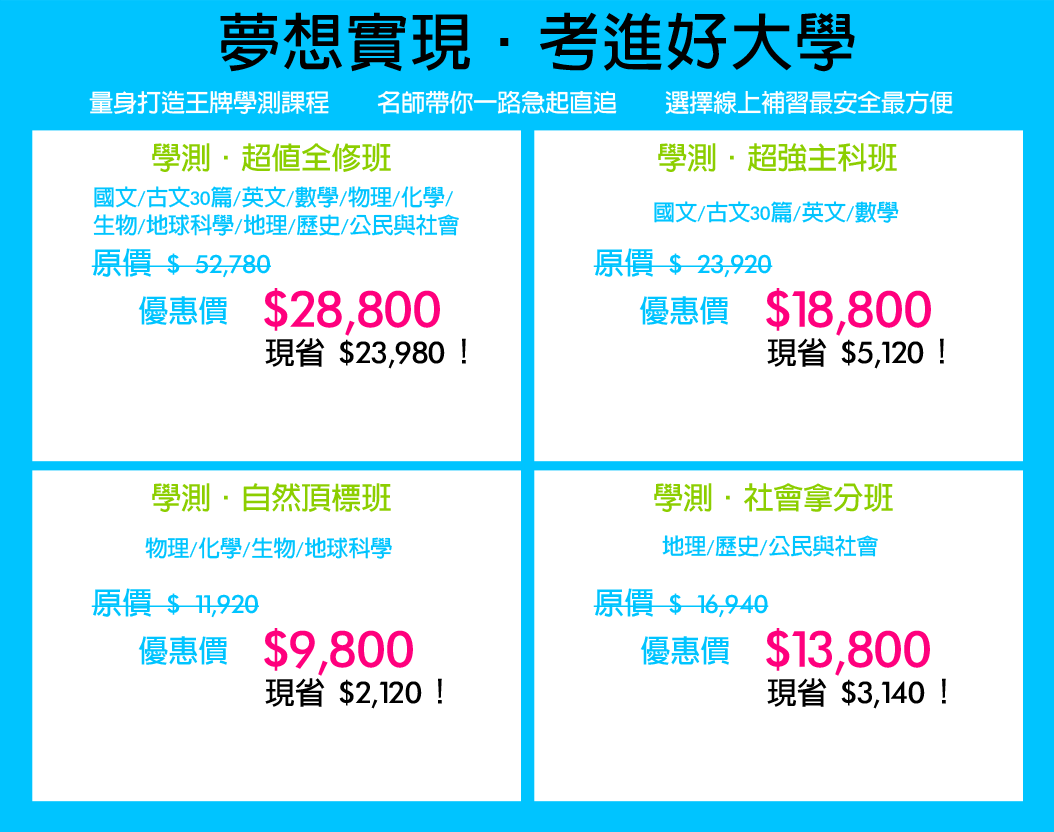
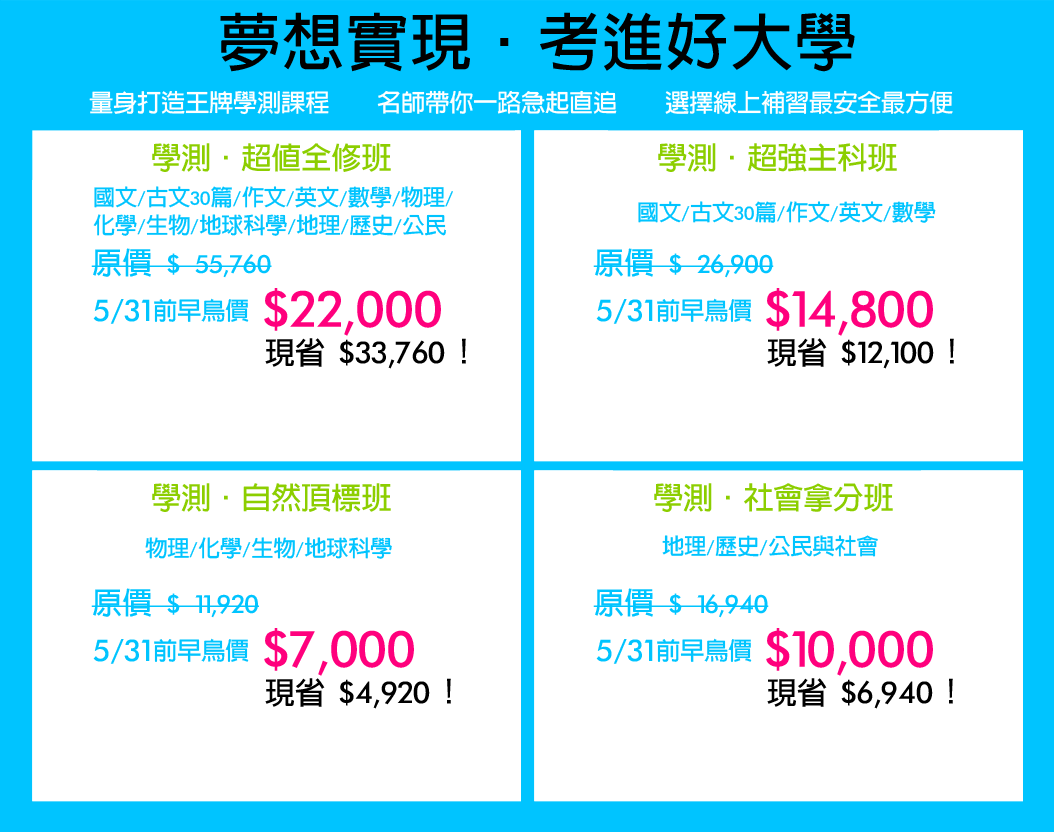
about #3452 更新 108 學測早鳥優惠開跑

diff --git a/dist/index.html b/dist/index.html
@@ -10,7 +10,7 @@
         <nav><a href="#banner"></a><a href="#teachers"></a><a href="#contents"></a><a href="#prices"></a>
         </nav>
         <section id="banner"><img src="./img/section_1.png"/></section>
-        <section><img src="./img/section_2.png"/></section>
+        <!--section: img(src="./img/section_2.png")/-->
         <section><img src="./img/section_3.png"/>
             <ul class="benefits">
                 <li class="card"><img class="front" src="./img/benefit/benefit_1_f.png"/><img class="back" src="./img/benefit/benefit_1_b.png"/></li>
@@ -62,7 +62,7 @@
         <section id="prices"><img src="./img/section_7.png"/><a class="enter" target="_blank" href="http://www.ehanlin.com.tw/type/ONLINE/id/y105_sh_rev_all_et/SalesPlans.html"></a><a class="enter" target="_blank" href="http://www.ehanlin.com.tw/type/ONLINE/id/y106_sh_rev_mainall_et/SalesPlans.html"></a><a class="enter" target="_blank" href="http://www.ehanlin.com.tw/type/ONLINE/id/y106_sh_rev_naall_et/SalesPlans.html"></a><a class="enter" target="_blank" href="http://www.ehanlin.com.tw/type/ONLINE/id/y106_sh_rev_soall_et/SalesPlans.html"></a>
         </section>
         <section id="courses"><img src="./img/section_8.png"/>
-            <div><a class="more_course" target="_blank" href="https://www.ehanlin.com.tw/type/ONLINE/id/y105_sh_rev_pc_et/SalesPlans.html"></a><a class="more_course" target="_blank" href="https://www.ehanlin.com.tw/type/ONLINE/id/y105_sh_rev_pc30_et/SalesPlans.html"></a><a class="more_course" target="_blank" href="https://www.ehanlin.com.tw/type/ONLINE/id/y105_sh_rev_en_et/SalesPlans.html"></a><a class="more_course" target="_blank" href="https://www.ehanlin.com.tw/type/ONLINE/id/y105_sh_rev_ma_et/SalesPlans.html"></a><a class="more_course" target="_blank" href="https://www.ehanlin.com.tw/type/ONLINE/id/y105_sh_rev_ph_et/SalesPlans.html"></a><a class="more_course" target="_blank" href="https://www.ehanlin.com.tw/type/ONLINE/id/y105_sh_rev_ch_et/SalesPlans.html"></a><a class="more_course" target="_blank" href="https://www.ehanlin.com.tw/type/ONLINE/id/y105_sh_rev_bi_et/SalesPlans.html"></a><a class="more_course" target="_blank" href="https://www.ehanlin.com.tw/type/ONLINE/id/y105_sh_rev_ea_et/SalesPlans.html"></a><a class="more_course" target="_blank" href="https://www.ehanlin.com.tw/type/ONLINE/id/y105_sh_rev_ge_et/SalesPlans.html"></a><a class="more_course" target="_blank" href="https://www.ehanlin.com.tw/type/ONLINE/id/y105_sh_rev_hi_et/SalesPlans.html"></a><a class="more_course" target="_blank" href="https://www.ehanlin.com.tw/type/ONLINE/id/y105_sh_rev_cs_et/SalesPlans.html"></a>
+            <div><a class="more_course" target="_blank" href="https://www.ehanlin.com.tw/type/ONLINE/id/y105_sh_rev_pc_et/SalesPlans.html"></a><a class="more_course" target="_blank" href="https://www.ehanlin.com.tw/type/ONLINE/id/y105_sh_rev_pc30_et/SalesPlans.html"></a><a class="more_course" target="_blank" href="https://www.ehanlin.com.tw/type/ONLINE/id/y105_sh_rev_en_et/SalesPlans.html"></a><a class="more_course" target="_blank" href="https://www.ehanlin.com.tw/type/ONLINE/id/y105_sh_rev_ma_et/SalesPlans.html"></a><a class="more_course" target="_blank" href="https://www.ehanlin.com.tw/type/ONLINE/id/y105_sh_rev_ph_et/SalesPlans.html"></a><a class="more_course" target="_blank" href="https://www.ehanlin.com.tw/type/ONLINE/id/y105_sh_rev_ch_et/SalesPlans.html"></a><a class="more_course" target="_blank" href="https://www.ehanlin.com.tw/type/ONLINE/id/y105_sh_rev_bi_et/SalesPlans.html"></a><a class="more_course" target="_blank" href="https://www.ehanlin.com.tw/type/ONLINE/id/y105_sh_rev_ea_et/SalesPlans.html"></a><a class="more_course" target="_blank" href="https://www.ehanlin.com.tw/type/ONLINE/id/y105_sh_rev_ge_et/SalesPlans.html"></a><a class="more_course" target="_blank" href="https://www.ehanlin.com.tw/type/ONLINE/id/y105_sh_rev_hi_et/SalesPlans.html"></a><a class="more_course" target="_blank" href="https://www.ehanlin.com.tw/type/ONLINE/id/y105_sh_rev_cs_et/SalesPlans.html"></a><a class="more_course" target="_blank" href="https://www.ehanlin.com.tw/type/ONLINE/id/y106_sh_rev_pc_write_et/SalesPlans.html"></a>
             </div>
         </section>
         <footer><img src="./img/footer.png"/><a target="_blank" href="https://www.ehanlin.com.tw/106intro.html"></a></footer>
